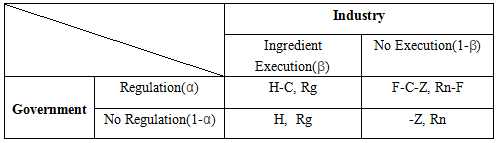
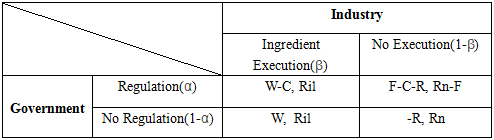
(add:) fluency between paragraphs

diff --git a/FINAL REPORT/application.tex b/FINAL REPORT/application.tex
@@ -1,12 +1,13 @@
 \section{Applications}
 
-\subsection{Here is your stuff.}
+\subsection{Tax and Prevention Mechanism}
 
 A mature electrical product could consists of thousand small parts. In order to better 
 calculate the e-waste tax for each product, we should primarily order all the materials 
-in the ingredient list to a vital factor to decide how much e-waste they could generate, 
-we should set a  staircase-like structure to distinguish different tax rate. 
-The tax rate could range from $5\%$ to $35\%$ in $5$ grades. 
+in the ingredient list as a vital factor to decide how much e-waste they could generate. 
+We set a staircase-like structure to distinguish different tax rate, and it could range from $5\%$ to $35\%$ in $5$ grades.
+Moreover, the degree of contamination to environment for each individual product is also estimated to get a flexible tax rate, 
+which means more contamination-prone materials inside a product, the higher tax rate this hierarchy holds.
 
 \begin{center}
 \begin{table}
@@ -21,10 +22,13 @@ The tax rate could range from $5\%$ to $35\%$ in $5$ grades.
 	5		& part exceed 8000 ton & 35 \\
 	\bottomrule
 \end{tabular}
-\caption{Table to test captions and labels}
+\caption{Template table to tax hierarchy}
 \label{table:1}
 \end{table}
 \end{center}
+
+By means of above table, if the industries want to produce more products in which the material could damage to the environment, we have an instruction 
+to decide how much they have to pay more. 
 
 The more important thing is how can we prevent the industry to lie about the ingredient list. 
 We put forward an incentive mechanism. The cost of execution of ingredient analysis and the penalty 
@@ -33,22 +37,22 @@ of avoiding regulation under government. We leverage the Game Theory for the ind
 The Government takes responsibility to protect the resource and environment, 
 which on the on the one hand could be understood that if the industries do not want to 
 execute the publishing of ingredient list, it leads to the contamination, 
-so that the government has to take the remedial measurement, let us assume that this cost is R, 
+so that the government has to take the remedial measurement, let us assume that this cost is $R$, 
 at the same time it takes the government regulation cost $C$ to penalize the
 industries with cost $F$ that the industries have to pay for the government. 
 In order to let each Industry execute the list consciously, $F-C >0$; On the other hand, 
 when the Industries are willing to execute the ingredient list, it brings the healthy to 
 the public back, so that the welfare $W$ comes sequentially.
 
-Suppose the selling price of normal electronics is Pn, the electronics with ingredient list is $P_{il}$. 
-The cost of normal electronics in $C_n$, and the electronics with ingredient list is Cil. 
+Suppose the selling price of normal electronics is $P_n$, the electronics with ingredient list is $P_{il}$. 
+The cost of normal electronics in $C_n$, and the electronics with ingredient list is $C_{il}$. 
 The profit for each execution of ingredient list should be $R_{il} = (P_{il}-C_{il})$, inversely, 
 the profit is $R_n = (P_n-C_n)$. Since we have the regulation cost, 
 so the government take the regulation at the α probability, so it occurs at $(1-\alpha)$, 
 when the government will not do anything. On the other hand, for the industry itself, 
 it holds $\beta$ probability to decide execute the ingredient list.
 
-So we get the game matrix table
+So we get following game matrix table
 
 \begin{center}
 \begin{table}[!htbp]
@@ -58,13 +62,13 @@ So we get the game matrix table
 \end{table}
 \end{center}
 
-the variables we have defined, we could get the Expectation value of government:
+Leveraging all variables we have defined, we could get the Expectation value of government:
 
 \[
 E_{il} = \alpha\beta(W-C) + \alpha(1-\beta)(F-C-R) + (1-\alpha)\beta W + (1-\alpha)(1-\beta)R
 \]
 
-Analogously, the Expection value of Industry:
+Analogously, the Expectation value of Industry:
 
 \[
 E_c = \alpha\beta R_{il} + \alpha(1-\beta)(R_n-F) + (1-\alpha)\beta R_{il} + (1-\alpha)(1-\beta)R_n
@@ -94,7 +98,7 @@ and then we get optimal response functions for each entities (Government and Ind
 \end{equation}
 
 
-The intersection of two functions is the mixed Nash equilibrium in the government regulation 
+The intersection of two response functions is the mixed Nash equilibrium of the government regulation 
 during the execution of Ingredient List. Finally we get the unique deterministic solution, that is 
 
 \[
@@ -104,7 +108,7 @@ during the execution of Ingredient List. Finally we get the unique deterministic
 \beta^* =  \frac{F - C}{F}
 \]
 
-which means the Government is intended to regulation the Industries at the probability of $\alpha^*$, 
+Which means the Government is intended to regulation the Industries at the probability of $\alpha^*$, 
 and the Industry execute Ingredient List at the probability of $\beta^*$, none of them should not 
 change this balance state unilaterally, otherwise one of their profits could be damaged.
  
